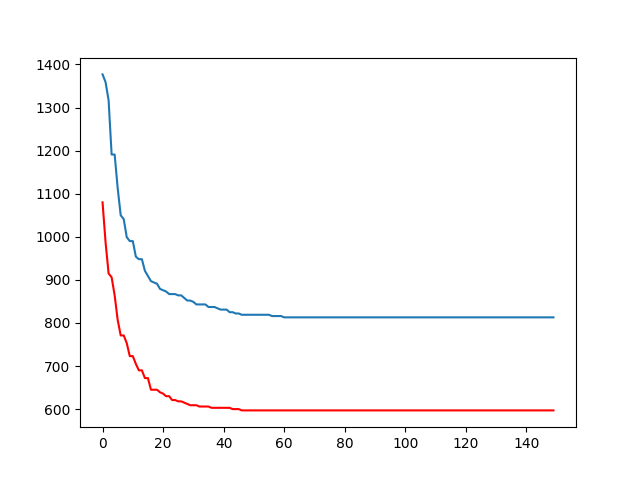
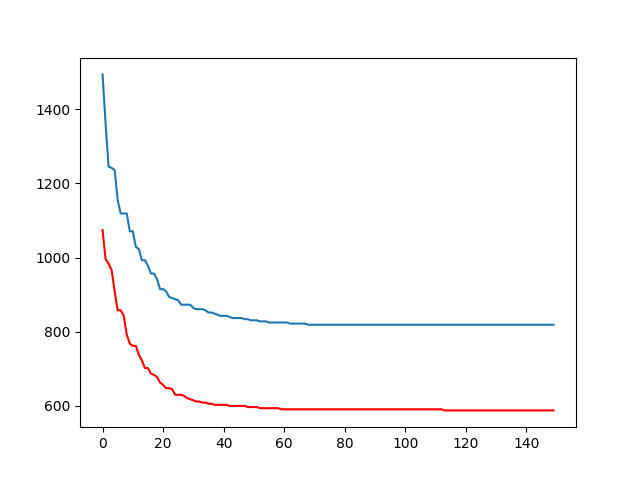
change how to choose new generation

diff --git a/NodeDeepthEncode2.py b/NodeDeepthEncode2.py
@@ -18,6 +18,8 @@ N = 500
 Tx = 2
 Rx = 1
 q = 4
+NE = 75
+deltaT = 150
 
 random.seed(100)
 """
@@ -236,7 +238,11 @@ Param: factorial rank of population
 Output: 1-D array
 """
 def evaluateSkillFactor(factorialRank):
-    return np.argmin(factorialRank, axis=1)
+    # print(len(factorialRank))
+    res = [i % 2 for i in range(1000)]
+    return np.array(res)
+    # exit(1)
+    # return np.argmin(factorialRank, axis=1)
 
 """
 Tournament selection to select the fittest individuals
@@ -245,7 +251,7 @@ Output: index of fittest individual
 """
 def tournamentSelectionIndividual(sizeOfPopulation, k, scalarFitness):
     selected = np.array(random.sample(range(sizeOfPopulation),k))
-    idxOfResult = np.argmax(scalarFitness[selected])   
+    idxOfResult = np.argmax(scalarFitness[selected])  
     return int(selected[idxOfResult])
 
 """
@@ -373,21 +379,21 @@ def encode(tree, root):
     dfs(tree, root, deepth)
     return np.array(individual)
 
-def eco2(gen1, gen2):
-    num_node = len(gen1[0])
-    i = random.randint(num_node//4, 3*num_node//4)
-    vr = random.sample(range(num_node), i)
-    # vr = [5, 6, 8, 3]
-    childGen = (gen2[0].copy(), gen2[1].copy())
-    for k in vr:
-        idxK = gen1[0].index(k)
-        if gen1[1][idxK] > 0:
-            for index in range(idxK-1, -1, -1):
-                if gen1[1][index] < gen1[1][idxK]:
-                    childGenResult = np.copy(epo(childGen, gen1[0][idxK], gen1[0][index]))
-                    childGen = (childGenResult[0].tolist().copy(), childGenResult[1].tolist().copy())
-                    break
-    return np.array(childGen)
+# def eco2(gen1, gen2):
+#     num_node = len(gen1[0])
+#     i = random.randint(num_node//4, 3*num_node//4)
+#     vr = random.sample(range(num_node), i)
+#     # vr = [5, 6, 8, 3]
+#     childGen = (gen2[0].copy(), gen2[1].copy())
+#     for k in vr:
+#         idxK = gen1[0].index(k)
+#         if gen1[1][idxK] > 0:
+#             for index in range(idxK-1, -1, -1):
+#                 if gen1[1][index] < gen1[1][idxK]:
+#                     childGenResult = np.copy(epo(childGen, gen1[0][idxK], gen1[0][index]))
+#                     childGen = (childGenResult[0].tolist().copy(), childGenResult[1].tolist().copy())
+#                     break
+#     return np.array(childGen)
 
 def eco3(individual1, individual2):
     A = individual1
@@ -564,7 +570,58 @@ def genTree(graph):
     root = randrange(len(graph))
 
     return root, res
+
+"""
+Create potential population
+Param: tree, adjList, numberOfEdges, maximumNumberOfEdges, numberOfTasks
+Output: K*NE potential individuals
+"""
+# def createPotentialPopulation(tree, adjList, numberOfEdges, maximumNumberOfEdges,numberOfTasks):
+#     population = np.empty((0, maximumNumberOfEdges), float)
+#     numberOfEdgesOfTree = 0
+#     for key in tree:
+#         tree[key] = sorted(tree[key])
+#         numberOfEdgesOfTree += len(tree[key])
+#     numberOfEdgesOfTree //= 2
+#     for key in adjList:
+#         adjList[key] = sorted(adjList[key])
+#     for _ in range(numberOfTasks*NE):
+#         individual = encode(tree, adjList, numberOfEdges, numberOfEdgesOfTree)
+#         population = np.vstack([population, representInCommonSpace(individual, maximumNumberOfEdges)])
+#     return population
+
     
+# def SPT(numberOfNodes, graph):
+#     tmpGraph = {}
+#     for key in graph:
+#         vertices = graph[key]
+#         tmpGraph[key] = sorted(vertices)
+#     isVisited = [False for i in range(numberOfNodes)]
+#     queue = []
+#     queue.append(0)
+#     isVisited[0] = True
+#     count = 1
+#     tree = [[]for i in range(numberOfNodes)]
+#     while(len(queue) != 0):
+#         h = queue[0]
+#         queue.pop(0)
+#         for i in tmpGraph[h]:
+#             if isVisited[i] == False:
+#                 isVisited[i] = True
+#                 queue.append(i)
+#                 count += 1
+#                 tree[h].append(i)
+#                 tree[i].append(h)
+#                 if(count == numberOfNodes):
+#                     result = {}
+#                     for i in range(len(tree)):
+#                         result[i] = tree[i]
+#                     return result
+#     result = {}
+#     for i in range(len(tree)):
+#         result[i] = tree[i]
+#     return result
+
 """
 Multi-factorial Evolutionary Algorithm
 Param: tasks (array of class Task), rmp, number of generation
@@ -582,7 +639,9 @@ def mfea(databaseName, tasks, rmp=0.3, generation=100):
     for task in tasks:
         for i in range(N):
             tree = genTree(task.adjList)[1]
+            # randTmp = random.randint(0, lengthOfGen-1)
             population = np.vstack([population, [encode(tree,0)]])
+            # population = np.vstack([population, [encode(tree,randTmp)]])
     population = np.delete(population, 0, axis=0)
     t = 0
 
@@ -592,6 +651,8 @@ def mfea(databaseName, tasks, rmp=0.3, generation=100):
     skillFactor = evaluateSkillFactor(factorialRank)
     scalarFitness = evaluateScalarFitness(factorialRank)
     individualBestCost = np.array([populationFactorialCost[idx][skillFactor[idx]] for idx in range(size)])
+
+    # shortestPathTree = SPT(tasks[0].n+tasks[0].m+1, tasks[0].adjList)
 
     # Loops
     for i in range(generation):
@@ -646,6 +707,12 @@ def mfea(databaseName, tasks, rmp=0.3, generation=100):
 
         offspringPopulation = np.delete(offspringPopulation, 0, axis = 0)
 
+        # # if(t>deltaT and t%deltaT == 0):
+        # if True:
+        #     potentialPopulation = createPotentialPopulation(shortestPathTree, tasks[0].adjList, tasks[0].numberOfEdges, maximumNumberOfEdges, len(tasks))
+        #     potentialSkillFactor = np.array([0]*(K*NE))
+        #     potentialCost = evaluatePopulationFactorialCost(potentialPopulation, list([tasks[0]]))
+
         # Factorial cost of offspring population
         offspringCost = evaluateOffspringCost(offspringPopulation, offspringSkillFactor, tasks)
 
@@ -661,12 +728,19 @@ def mfea(databaseName, tasks, rmp=0.3, generation=100):
 
         # choose fittest individual by tournament selection
         idxFittestPopulation = list()
-        for _ in range(size):
-            idxFittestIndividual = tournamentSelectionIndividual(population.shape[0], 4, scalarFitness)
-            idxFittestPopulation.append(idxFittestIndividual)
-
-        # idxFittestPopulation = np.argsort(-scalarFitness)[:size]
-
+        # for _ in range(size):
+        #     idxFittestIndividual = tournamentSelectionIndividual(population.shape[0], 4, scalarFitness)
+        #     idxFittestPopulation.append(idxFittestIndividual)
+        tmpSize = size*4//5
+        tmpSize = 2
+        tmpSize = size // 2
+        idxFittestPopulation = np.argsort(-scalarFitness)[:tmpSize]
+        # for _ in range(size//5):
+        for _ in range(size//2):
+            idxFittestIndividual = random.randint(size, size*2-1)
+            # idxFittestPopulation.append(idxFittestIndividual)
+            idxFittestPopulation = np.append(idxFittestPopulation, idxFittestIndividual)
+        
         population = population[idxFittestPopulation]
         skillFactor = skillFactor[idxFittestPopulation]
         individualBestCost = individualBestCost[idxFittestPopulation]
@@ -707,7 +781,7 @@ mecatDataFiles = os.listdir(mecatDataPath)
 
 mecatDataFiles = sorted(mecatDataFiles,reverse=False)
 
-mecatDataFiles = mecatDataFiles[17:]
+mecatDataFiles = mecatDataFiles[10:]
 
 allResultCost = np.array([[0]*2])
 
@@ -722,7 +796,7 @@ for i in range(len(mecatDataFiles)):
     task2 = getInputFromFile(mecatDataPath+'_rn/rn_'+mecatDataFiles[i])
     tasks = list([task1, task2])
     print('Task 1 and 2 is from file: ', mecatDataFiles[i])
-    resultPopulation = mfea(mecatDataFiles[i], tasks, 0.25, 150)
+    resultPopulation = mfea(mecatDataFiles[i], tasks, 1, 300)
 
     print("-----")
     resultPopulationCost = list()
